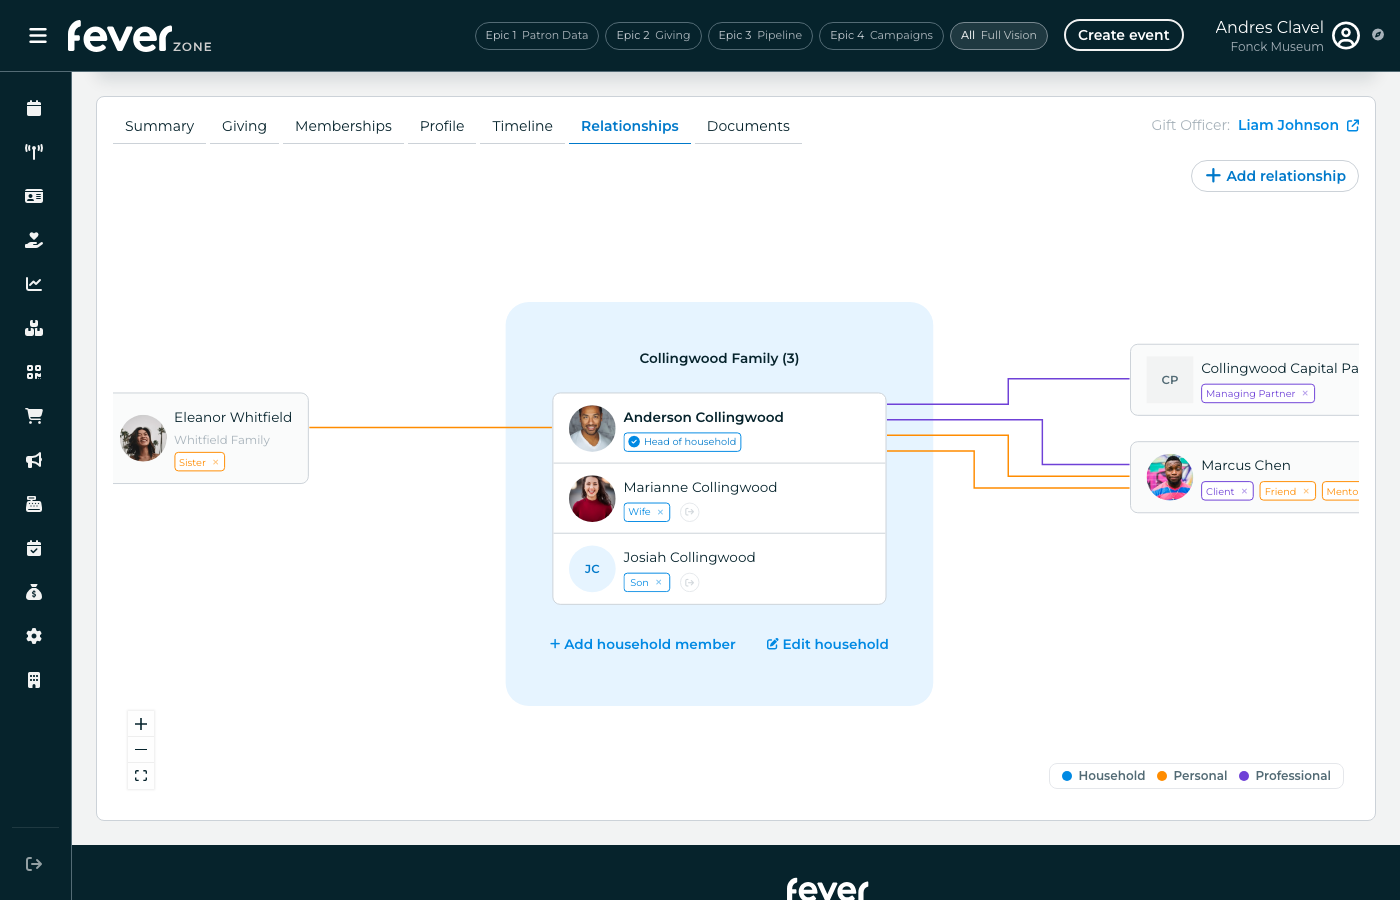
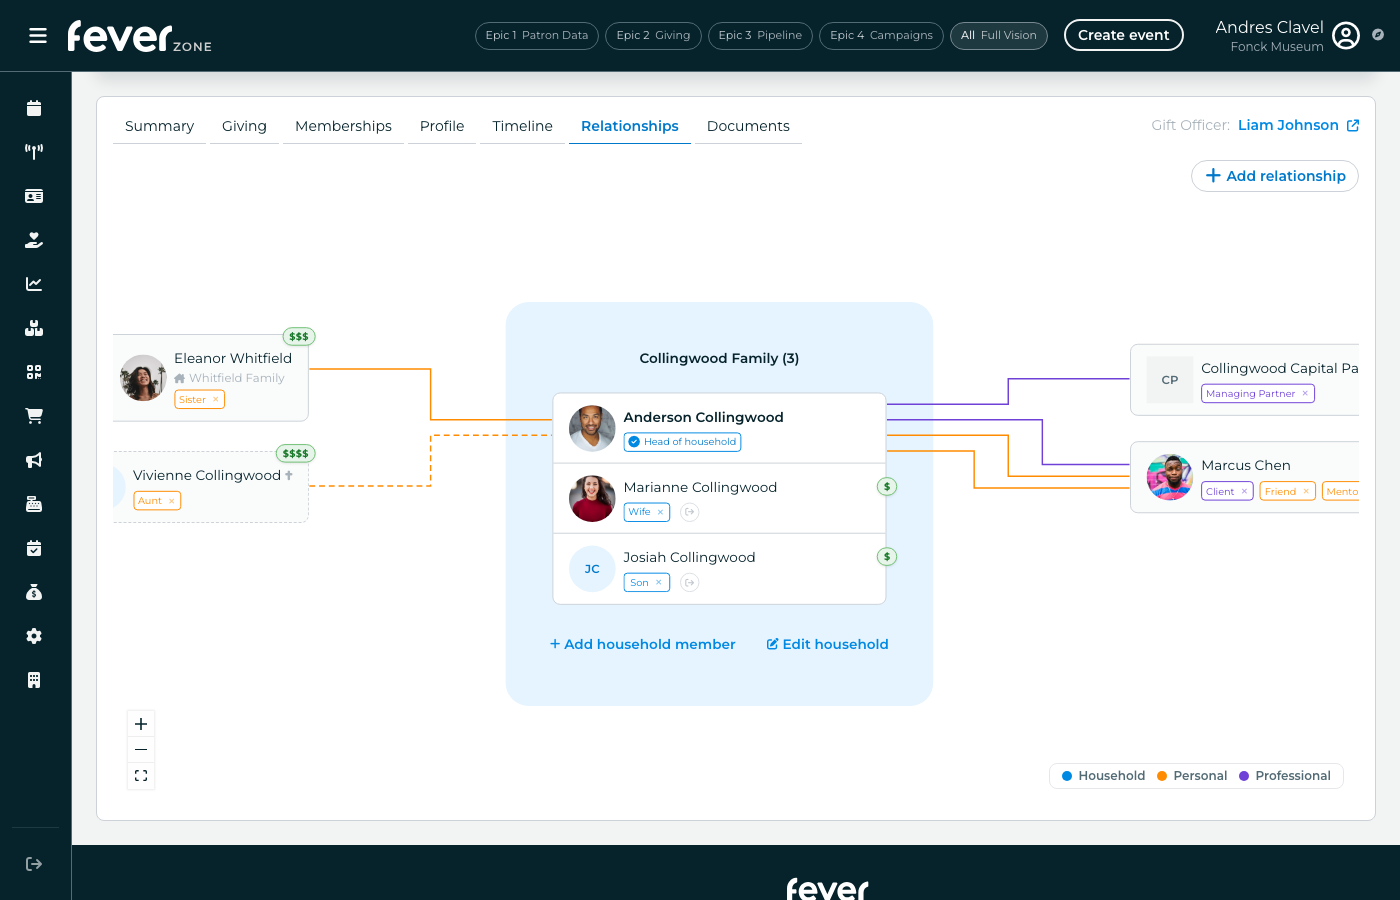
Recapture all walkthrough screenshots for LTV badges and non-active patron indicators
Full refresh of 26 existing + 2 new screenshots (16-ltv-badges, 17-deceased-patron)
reflecting green $/$$/$$$/$$$$ LTV tier badges on all relationship cards and
dashed borders/edges/cross icon for deceased patrons (Vivienne Collingwood).
Added 2 new walkthrough steps in productGuide.js: Lifetime Value Indicators
(Graph Overview) and Non-Active Patrons (Graph Overview). Updated step 1
description to mention both features.

Changed region(s): [[0.0614, 0.3422, 0.3993, 0.56], [0.6143, 0.5911, 0.645, 0.6222], [0.6143, 0.5289, 0.645, 0.56]]

diff --git a/src/data/productGuide.js b/src/data/productGuide.js
@@ -486,7 +486,7 @@ const GUIDE_CONTENT = {
                 {
                   title: 'Relationship Graph',
                   description:
-                    'The graph displays all relationship types color-coded: blue for Household, orange for Personal, purple for Professional/Organization. A legend in the bottom-right shows which types are present. The central patron sits inside the household card (showing member count, e.g., "Collingwood Family (3)"), with external connections branching outward. Two CTAs appear inside the household card: "+ Add household member" and "Edit household".',
+                    'The graph displays all relationship types color-coded: blue for Household, orange for Personal, purple for Professional/Organization. A legend in the bottom-right shows which types are present. The central patron sits inside the household card (showing member count, e.g., "Collingwood Family (3)"), with external connections branching outward. Green LTV badges ($/$$/$$$/$$$$) appear on each card showing lifetime giving tier. Non-active patrons (e.g., Vivienne Collingwood, deceased) display with dashed borders and a status icon.',
                   media: '/screenshots/relationships/09-graph-fitview.png',
                   mediaType: 'image',
                 },
@@ -502,6 +502,20 @@ const GUIDE_CONTENT = {
                   description:
                     'Connector edges display the role name (e.g., "Wife", "Sister", "Client") as an inline label, color-matched to the relationship type. This keeps the graph self-documenting — no need to hover or click to understand each connection.',
                   media: '/screenshots/relationships/14-edge-labels.png',
+                  mediaType: 'image',
+                },
+                {
+                  title: 'Lifetime Value Indicators',
+                  description:
+                    'Each relationship card displays a green LTV badge in the top-right corner using restaurant-style tiers: $ (under $1K), $$ ($1K–$10K), $$$ ($10K–$50K), $$$$ ($50K+). Hover the badge to see the exact formatted amount (e.g., "Lifetime Value: $12,500"). LTV badges appear on all external cards, bridging cards, and household member rows — but not on the current patron\'s own card. This gives gift officers instant context on each contact\'s giving capacity without leaving the relationship map.',
+                  media: '/screenshots/relationships/16-ltv-badges.png',
+                  mediaType: 'image',
+                },
+                {
+                  title: 'Non-Active Patrons',
+                  description:
+                    'Relationships with deceased, inactive, or archived patrons remain visible with visual indicators: dashed card borders, dashed connector edges, and a status icon next to the name — a cross (†) for Deceased, a pause icon for Inactive, and an archive box for Archived. Hovering the icon shows details (e.g., "Deceased — 2023-09-17"). Vivienne Collingwood (Anderson\'s deceased aunt) demonstrates this with her dashed orange card, $$$$  LTV badge, and dashed edge. Non-active patrons are fully interactive.',
+                  media: '/screenshots/relationships/17-deceased-patron.png',
                   mediaType: 'image',
                 },
                 {
@@ -582,7 +596,7 @@ const GUIDE_CONTENT = {
                 {
                   title: 'After Dissolve Everything',
                   description:
-                    'Result: the household card is gone. Marianne and Josiah are removed entirely. Anderson becomes a standalone node connected only to Eleanor, Marcus, and Collingwood Capital Partners. The legend no longer shows blue Household — only Personal (orange) and Professional (purple) remain. Undo/redo buttons appear.',
+                    'Result: the household card is gone. Marianne and Josiah are removed entirely. Anderson becomes a standalone node connected only to Eleanor, Vivienne (deceased, dashed card), Marcus, and Collingwood Capital Partners. The legend no longer shows blue Household — only Personal (orange) and Professional (purple) remain. Undo/redo buttons appear.',
                   media: '/screenshots/relationships/03b-after-dissolve-all.png',
                   mediaType: 'image',
                 },
